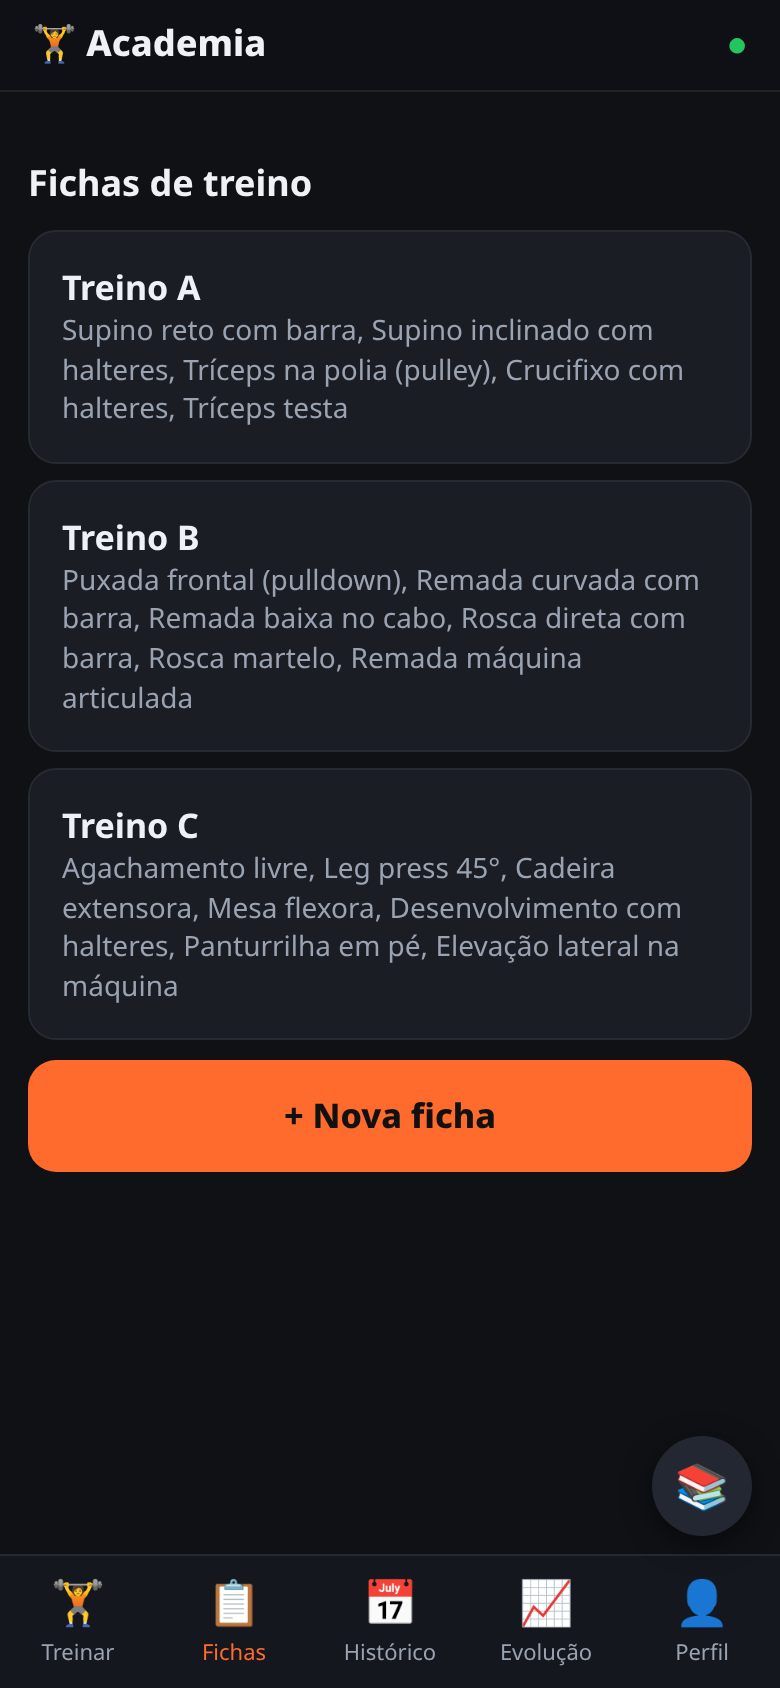
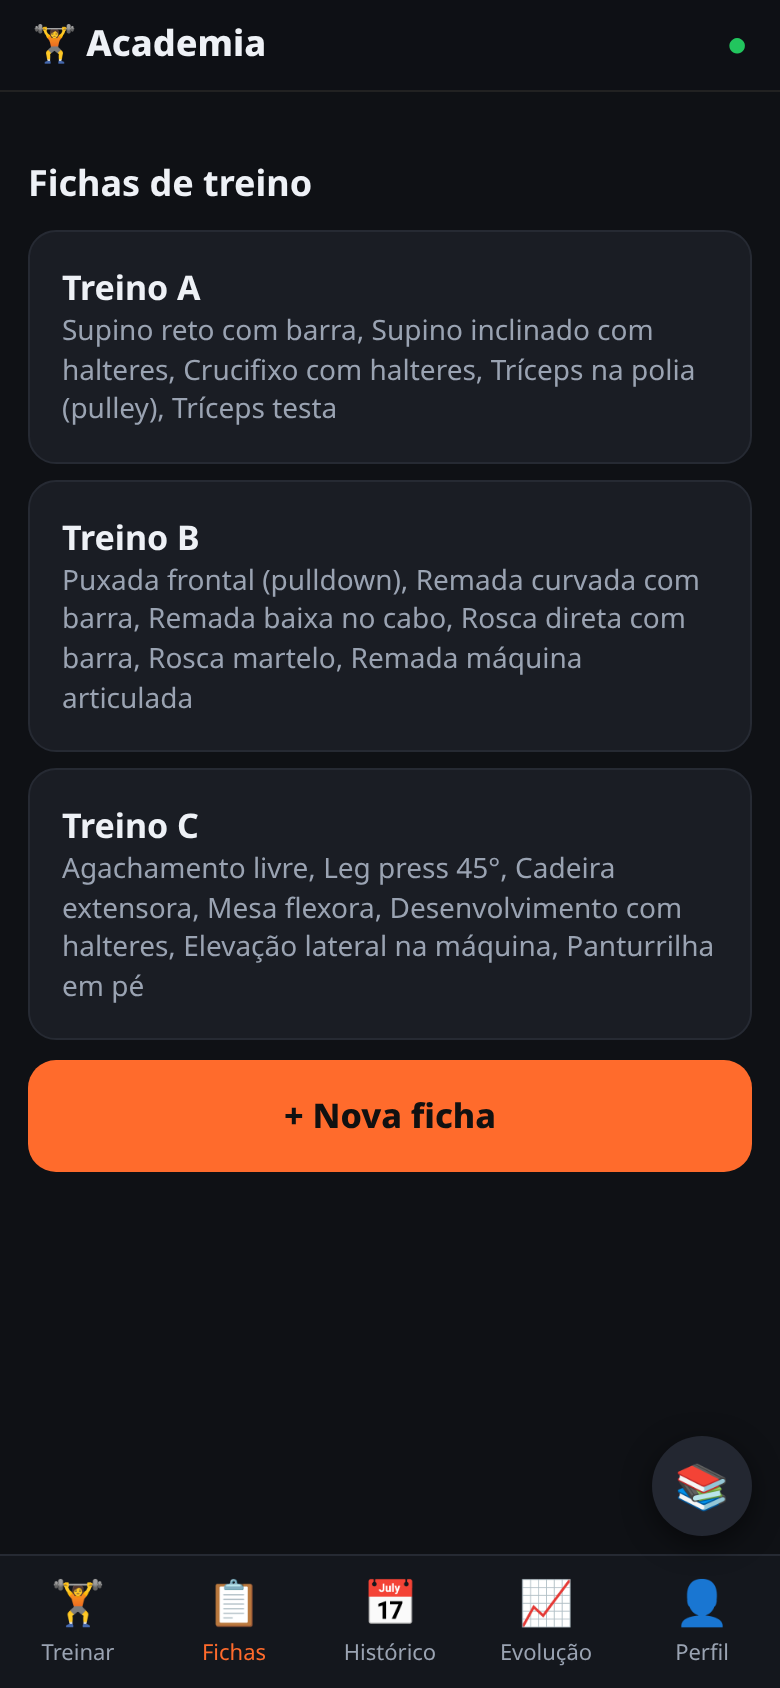
Gráfico por data e rótulos decimais; Evolução ordenada; CSV com data local; Biblioteca na tela Fichas

diff --git a/docs/app.js b/docs/app.js
@@ -195,6 +195,7 @@
     return `<h2>Fichas de treino</h2>
       ${fs.map((f) => `<button class="card" data-go="ficha/${f.id}"><div class="t">${esc(f.nome)}</div><div class="sub">${Q.itensFicha(f.id).map((i) => esc(S.get("exercicios", i.exercicio_id)?.nome)).join(", ") || "sem exercícios"}</div></button>`).join("") || `<p class="vazio">Nenhuma ficha ainda.</p>`}
       <button class="btn" data-act="nova-ficha">+ Nova ficha</button>
+      <button class="btn sec" data-go="exercicios">📚 Biblioteca de exercícios</button>
       ${fs.length === 0 ? `<button class="btn sec" data-act="modelo-abc">Criar modelo pronto A/B/C</button>` : ""}`;
   };
 
@@ -266,8 +267,10 @@
 
   telas.progresso = (exId) => {
     if (!exId) {
-      const usados = Q.exercicios().filter((e) => Q.historicoEx(e.id).length);
-      return `<h2>Evolução</h2>${usados.length ? usados.map((e) => { const pr = Q.recordes(e.id); return `<button class="card" data-go="progresso/${e.id}"><div class="t">${esc(e.nome)}</div><div class="sub">PR ${fmtKg(pr.maxCarga)} · 1RM est. ${fmtKg(pr.max1rm)}</div></button>`; }).join("") : `<p class="vazio">Registre treinos para ver sua evolução.</p>`}`;
+      const usados = Q.exercicios().map((e) => ({ e, h: Q.historicoEx(e.id) })).filter((x) => x.h.length)
+        .sort((a, b) => b.h[0].sessao.iniciada_em.localeCompare(a.h[0].sessao.iniciada_em) || a.e.nome.localeCompare(b.e.nome));
+      return `<h2>Evolução</h2><p class="sub">Mais recentes primeiro. Toque para ver o gráfico.</p>${usados.length ? usados.map(({ e, h }) => { const pr = Q.recordes(e.id); const maxReps = Math.max(...h.flatMap((g) => g.series.map((r) => r.reps)));
+        return `<button class="card" data-go="progresso/${e.id}"><div class="t">${esc(e.nome)}</div><div class="sub">${pr.maxCarga ? `PR ${fmtKg(pr.maxCarga)} · 1RM est. ${fmtKg(pr.max1rm)}` : `Sem carga · máx. ${maxReps} reps`} · último: ${fmtData(h[0].sessao.iniciada_em)}</div></button>`; }).join("") : `<p class="vazio">Registre treinos para ver sua evolução.</p>`}`;
     }
     const ex = S.get("exercicios", exId);
     const h = Q.historicoEx(exId).reverse();
@@ -288,10 +291,12 @@
     const vals = pts.flatMap((p) => [p.carga, p.rm]);
     let mn = Math.min(...vals), mx = Math.max(...vals);
     if (mx === mn) { mx += 5; mn = Math.max(0, mn - 5); }
-    const x = (i) => P + (pts.length === 1 ? (W - 2 * P) / 2 : (i * (W - 2 * P)) / (pts.length - 1));
+    const t0 = new Date(pts[0].d).getTime(), t1 = new Date(pts[pts.length - 1].d).getTime();
+    const x = (i) => P + (t1 === t0 ? (W - 2 * P) / 2 : ((new Date(pts[i].d).getTime() - t0) * (W - 2 * P)) / (t1 - t0));
+    const rot = (v) => (mx - mn < 6 ? v.toFixed(1).replace(".", ",") : Math.round(v));
     const y = (v) => H - P + 10 - ((v - mn) / (mx - mn)) * (H - 2 * P);
     const linha = (k, cls) => `<polyline class="${cls}" points="${pts.map((p, i) => `${x(i)},${y(p[k])}`).join(" ")}"/>` + pts.map((p, i) => `<circle class="${cls}" cx="${x(i)}" cy="${y(p[k])}" r="3"/>`).join("");
-    const ticks = [mn, (mn + mx) / 2, mx].map((v) => `<text x="2" y="${y(v) + 4}">${Math.round(v)}</text><line x1="${P}" x2="${W - 5}" y1="${y(v)}" y2="${y(v)}"/>`).join("");
+    const ticks = [mn, (mn + mx) / 2, mx].map((v) => `<text x="2" y="${y(v) + 4}">${rot(v)}</text><line x1="${P}" x2="${W - 5}" y1="${y(v)}" y2="${y(v)}"/>`).join("");
     const datas = [0, pts.length - 1].filter((v, i, a) => a.indexOf(v) === i).map((i) => `<text x="${Math.min(W - 40, Math.max(P - 10, x(i) - 18))}" y="${H - 2}">${new Date(pts[i].d).toLocaleDateString("pt-BR", { day: "2-digit", month: "2-digit" })}</text>`).join("");
     return `<svg class="graf" viewBox="0 0 ${W} ${H}">${ticks}${datas}${unico ? "" : linha("rm", "l2")}${linha("carga", "l1")}</svg>`;
   }
@@ -452,7 +457,7 @@
     },
     exportar: () => {
       const linhas = [["data", "treino", "exercicio", "grupo", "serie", "carga_kg", "reps", "1rm_estimado"]];
-      Q.sessoes().forEach((s) => Q.seriesSessao(s.id).filter((r) => r.feita).forEach((r) => { const e = S.get("exercicios", r.exercicio_id); linhas.push([s.iniciada_em, s.nome, e?.nome, e?.grupo, r.numero, r.carga_kg, r.reps, rm1(r.carga_kg, r.reps).toFixed(1)]); }));
+      Q.sessoes().forEach((s) => Q.seriesSessao(s.id).filter((r) => r.feita).forEach((r) => { const e = S.get("exercicios", r.exercicio_id); linhas.push([new Date(s.iniciada_em).toLocaleString("pt-BR"), s.nome, e?.nome, e?.grupo, r.numero, r.carga_kg, r.reps, rm1(r.carga_kg, r.reps).toFixed(1)]); }));
       const csv = linhas.map((l) => l.map((v) => `"${String(v ?? "").replace(/"/g, '""')}"`).join(";")).join("\n");
       const a = document.createElement("a"); a.href = URL.createObjectURL(new Blob(["\ufeff" + csv], { type: "text/csv" })); a.download = "treinos.csv"; a.click();
     },
@@ -490,7 +495,7 @@
     main().innerHTML = fn(arg);
     if (render._ultima === location.hash) window.scrollTo(0, y); else window.scrollTo(0, 0);
     render._ultima = location.hash;
-    document.querySelectorAll("nav button").forEach((b) => b.classList.toggle("on", b.dataset.go === (nome === "ficha" ? "fichas" : nome === "sessao" ? "historico" : nome === "ativo" ? "treinar" : nome === "conta" ? "perfil" : nome)));
+    document.querySelectorAll("nav button").forEach((b) => b.classList.toggle("on", b.dataset.go === (nome === "ficha" ? "fichas" : nome === "sessao" ? "historico" : nome === "ativo" ? "treinar" : nome === "conta" ? "perfil" : nome === "exercicios" ? "fichas" : nome)));
     atualizarStatus();
     const busca = $("#busca-ex");
     if (busca) busca.oninput = (e) => { telas.exercicios.busca = e.target.value; const pos = e.target.selectionStart; main().innerHTML = telas.exercicios(); const b = $("#busca-ex"); b.focus(); b.setSelectionRange(pos, pos); render(); };

diff --git a/docs/sw.js b/docs/sw.js
@@ -1,6 +1,6 @@
 // Service worker: deixa o app abrir offline (cache do "casco" do app).
 // Ao mudar arquivos, aumente a VERSAO para os aparelhos atualizarem.
-const VERSAO = "academia-v1.0.4";
+const VERSAO = "academia-v1.0.5";
 const ARQUIVOS = ["./", "index.html", "styles.css", "config.js", "store.js", "app.js", "vendor/supabase.js",
   "manifest.webmanifest", "icons/icon-192.png", "icons/icon-512.png", "icons/apple-touch-icon.png"];
 self.addEventListener("install", (e) => { e.waitUntil(caches.open(VERSAO).then((c) => c.addAll(ARQUIVOS))); self.skipWaiting(); });

diff --git a/docs/index.html b/docs/index.html
@@ -29,7 +29,6 @@
     <button data-go="progresso">📈<span>Evolução</span></button>
     <button data-go="perfil">👤<span>Perfil</span></button>
   </nav>
-  <button class="fab-ex" data-go="exercicios" title="Exercícios">📚</button>
   <div id="modal"></div>
   <div id="toast"></div>
   <script src="vendor/supabase.js"></script>

diff --git a/docs/config.js b/docs/config.js
@@ -3,5 +3,5 @@ window.APP_CONFIG = {
   SUPABASE_URL: "https://swiquyzwmmdoayungrnd.supabase.co",
   SUPABASE_KEY: "sb_publishable_oEuGlr01BrMFbbHG5NZQ1A_ioAwP3RQ",
   SCHEMA: "academia",
-  VERSAO: "1.0.4",
+  VERSAO: "1.0.5",
 };

diff --git a/tests/demo_fase4.py b/tests/demo_fase4.py
@@ -1,0 +1,36 @@
+# Fase 4: conferência e screenshots finais + CSV + cadastro/troca de senha (conta descartável) + PWA
+import sys, time, csv, io
+sys.path.insert(0, "tests"); from demo_lib import *
+R = {}
+with sync_playwright() as p:
+    a = App(p); pg = a.pg; abrir(a); time.sleep(3); pg.reload(); a.esperar_sync(); time.sleep(1)
+    a.nav("treinar"); a.shot("02-treinar")
+    a.nav("historico"); R["historico"] = a.main()[:700]; a.shot("09-historico", full=True)
+    pg.locator(".card", has_text="💬").first.click(); time.sleep(0.6); R["chat"] = a.main()[:300]; a.shot("10-sessao-chat", full=True)
+    a.nav("historico"); pg.locator(".card", has_text="Treino A").first.click(); time.sleep(0.6); a.shot("08-sessao-detalhe", full=True)
+    a.nav("progresso"); R["evolucao"] = a.main()[:900]; a.shot("11-evolucao-lista", full=True)
+    pg.locator(".card", has_text="Supino reto com barra").first.click(); time.sleep(0.6)
+    R["supino"] = pg.inner_text(".kpis").replace("\n", " "); R["supino_hist"] = a.main()[-260:]; a.shot("12-evolucao-supino", full=True)
+    a.nav("perfil"); R["perfil"] = pg.inner_text(".kpis").replace("\n", " "); R["perfil_txt"] = a.main()[:600]; a.shot("14-perfil-peso", full=True)
+    with pg.expect_download() as d: pg.click("[data-act=exportar]")
+    path = "/workspace/app-academia/screens/treinos-demo.csv"; d.value.save_as(path)
+    rows = list(csv.reader(io.StringIO(open(path, encoding="utf-8-sig").read()), delimiter=";"))
+    R["csv"] = f"{len(rows)-1} linhas; cabeçalho={rows[0]}; ex={rows[1]}"
+    a.go("exercicios"); a.shot("05-exercicios")
+    a.nav("fichas"); a.shot("03-fichas")
+    R["manifest"] = pg.evaluate("fetch('manifest.webmanifest').then(r=>r.json()).then(m=>[m.display,m.icons.length,m.start_url])")
+    R["sw"] = pg.evaluate("navigator.serviceWorker.getRegistration().then(r=>!!(r&&r.active))")
+    R["erros"] = a.erros; a.ctx.close()
+    # cadastro pela tela + trocar senha + login com a nova (conta descartável)
+    b = App(p, "/tmp/pw-tmp"); q = b.pg; q.goto(URL); q.wait_for_selector("#f-login")
+    q.fill("input[name=email]", "descartavel.academia@example.com"); q.fill("input[name=senha]", "Temp12345")
+    q.click("button[value=criar]"); q.wait_for_selector("nav button.on", timeout=20000); b.esperar_sync()
+    b.nav("perfil"); b.respostas = ["Nova12345"]; q.click("[data-act=senha]"); time.sleep(2); R["trocar_senha"] = q.inner_text("#toast")
+    q.click("[data-act=sair]"); time.sleep(2)
+    q.fill("input[name=email]", "descartavel.academia@example.com"); q.fill("input[name=senha]", "Nova12345"); q.click("button[value=entrar]")
+    q.wait_for_selector("nav button.on", timeout=15000); R["login_nova_senha"] = "ok"
+    q.click("nav button[data-go=perfil]"); time.sleep(0.5); q.click("[data-act=sair]"); time.sleep(1)
+    q.fill("input[name=email]", "descartavel.academia@example.com"); q.fill("input[name=senha]", "Temp12345"); q.click("button[value=criar]"); time.sleep(3)
+    R["cadastro_duplicado"] = q.inner_text("#f-login .erro")
+    b.ctx.close()
+for k, v in R.items(): print(k, "=>", v if not isinstance(v, str) else v.replace("\n", " | "))

diff --git a/tests/demo_fase3.py b/tests/demo_fase3.py
@@ -1,0 +1,39 @@
+# Fase 3: sex 06 — Treino A pelo app: sugestão da última carga, botões +/−, cronômetro, recorde, offline+sync
+import sys, time
+sys.path.insert(0, "tests"); from demo_lib import *
+R = {}
+with sync_playwright() as p:
+    a = App(p); pg = a.pg; R["versao"] = abrir(a); time.sleep(2)
+    a.nav("treinar"); a.shot("02-treinar-inicio")
+    pg.locator("[data-act=iniciar]", has_text="Peito").first.click(); pg.wait_for_selector(".serie .check"); time.sleep(0.6)
+    R["sugestao_supino"] = a.valores("Supino reto com barra"); R["sugestao_inclinado"] = a.valores("Supino inclinado com halteres")
+    R["sub_supino"] = a.bloco("Supino reto com barra").locator(".exhead .sub").inner_text()
+    # progressão com o botão + (2,5 kg) em cada série do supino
+    for i in range(4):
+        a.bloco("Supino reto com barra").locator(".serie:not(.cab)").nth(i).locator("[data-c=carga_kg][data-v='2.5']").click(); time.sleep(0.25)
+    a.bloco("Supino reto com barra").locator(".serie:not(.cab)").nth(0).locator(".check").click(); time.sleep(0.4)
+    R["toast_pr"] = pg.inner_text("#toast"); a.shot("06-treino-ativo-recorde")
+    # cronômetro: +15, −15
+    t0 = pg.inner_text("#timer-txt"); pg.click("#t-mais"); time.sleep(0.3); t1 = pg.inner_text("#timer-txt"); pg.click("#t-menos"); pg.click("#t-menos"); time.sleep(0.3)
+    R["timer"] = [t0, t1, pg.inner_text("#timer-txt")]
+    a.shot("07-cronometro")
+    # resto do supino
+    for i in range(1, 4): a.bloco("Supino reto com barra").locator(".serie:not(.cab)").nth(i).locator(".check").click(); time.sleep(0.25)
+    # OFFLINE no meio do treino
+    a.ctx.set_offline(True); time.sleep(0.5)
+    a.preencher("Supino inclinado com halteres", [(16,9),(16,8),(16,8)])
+    a.preencher("Crucifixo com halteres", [(10,12),(10,12),(10,11)])
+    a.bloco("Crucifixo com halteres").locator(".serie:not(.cab)").nth(2).locator("[data-c=reps][data-v='1']").click(); time.sleep(0.3)
+    a.preencher("Tríceps na polia (pulley)", [(22.5,12),(22.5,11),(22.5,10)])
+    a.preencher("Tríceps testa", [(15,10),(15,10),(15,10)])
+    R["offline_status"] = pg.get_attribute("#sync", "title"); R["fila_offline"] = pg.evaluate("Store.fila.length")
+    pg.click("[data-act=finalizar]"); time.sleep(1)
+    R["detalhe"] = a.main()[:500]
+    a.ctx.set_offline(False); pg.evaluate("window.dispatchEvent(new Event('online'))")
+    R["sync_volta"] = a.esperar_sync(); R["fila_depois"] = pg.evaluate("Store.fila.length")
+    # treino livre: iniciar e descartar
+    a.nav("treinar"); pg.click("[data-act=iniciar-livre]"); time.sleep(0.6)
+    R["livre"] = a.main()[:80]; pg.click("[data-act=cancelar-sessao]"); time.sleep(0.6)
+    R["apos_descartar"] = a.main()[:60]
+    R["erros"] = a.erros; a.ctx.close()
+for k, v in R.items(): print(k, "=>", v if not isinstance(v, str) else v.replace("\n", " | ")[:500])

diff --git a/tests/demo_fase1b.py b/tests/demo_fase1b.py
@@ -1,0 +1,23 @@
+import sys, time
+sys.path.insert(0, "tests"); from demo_lib import *
+R = {}
+with sync_playwright() as p:
+    a = App(p); pg = a.pg; R["versao"] = abrir(a)
+    a.nav("fichas"); pg.locator(".card", has_text="Treino A").click(); time.sleep(0.6)
+    item(a, "Supino reto com barra", "series", "4"); item(a, "Supino reto com barra", "descanso_seg", "120")
+    for ex in ("Crucifixo", "Tríceps na polia", "Tríceps testa"): item(a, ex, "reps_alvo", "10-12")
+    pg.mouse.click(5, 120); time.sleep(0.5)
+    a.nav("fichas"); pg.locator(".card", has_text="Treino B").click(); time.sleep(0.6)
+    item(a, "Puxada frontal", "reps_alvo", "8-10"); item(a, "Remada curvada", "series", "4"); item(a, "Remada curvada", "reps_alvo", "8-10")
+    for ex in ("Remada baixa", "Rosca direta", "Rosca martelo"): item(a, ex, "reps_alvo", "10-12")
+    pg.mouse.click(5, 120); time.sleep(0.5)
+    a.nav("fichas"); pg.locator(".card", has_text="Treino C").click(); time.sleep(0.6)
+    item(a, "Agachamento livre", "reps_alvo", "8-10")
+    item(a, "Panturrilha em pé", "series", "4"); item(a, "Panturrilha em pé", "descanso_seg", "60")
+    for ex in ("Leg press", "Cadeira extensora", "Mesa flexora", "Desenvolvimento"): item(a, ex, "reps_alvo", "10-12")
+    pg.mouse.click(5, 120); time.sleep(0.5)
+    pg.locator(".exbloco", has_text="Elevação lateral na máquina").locator("[data-act=mover][data-v='-1']").click(); time.sleep(0.5)
+    R["ordem_C"] = pg.locator(".exbloco .exhead .t").all_inner_texts()
+    a.shot("04-ficha-C-edicao", full=True)
+    R["sync"] = a.esperar_sync(); R["erros"] = a.erros; a.ctx.close()
+print(R)

diff --git a/tests/demo_lib.py b/tests/demo_lib.py
@@ -5,7 +5,7 @@ def cred():
     t = open("/workspace/app-academia/conta-teste.txt").read()
     return re.search(r"E-mail: (\S+)", t).group(1), re.search(r"Senha: (\S+)", t).group(1)
 class App:
-    def __init__(self, p, perfil_dir="/tmp/pw-demo"):
+    def __init__(self, p, perfil_dir="/tmp/pw-demo2"):
         self.ctx = p.chromium.launch_persistent_context(perfil_dir, channel="chrome", headless=True,
             viewport={"width": 390, "height": 844}, device_scale_factor=2, accept_downloads=True)
         self.pg = self.ctx.pages[0] if self.ctx.pages else self.ctx.new_page()
@@ -44,3 +44,12 @@ class App:
                 row = self.bloco(ex).locator(".serie:not(.cab)").nth(i)
                 if "feita" not in (row.get_attribute("class") or ""):
                     row.locator(".check").click(); time.sleep(0.25)
+def abrir(a):
+    pg = a.pg; pg.goto(URL); time.sleep(2)
+    if pg.is_visible("#f-login"):
+        E, S = cred(); pg.fill("input[name=email]", E); pg.fill("input[name=senha]", S); pg.click("button[value=entrar]")
+    pg.wait_for_selector("nav button.on"); a.esperar_sync()
+    return pg.evaluate("APP_CONFIG.VERSAO")
+def item(a, ex, campo, v):
+    el = a.pg.locator(".exbloco", has_text=ex).first.locator(f"[data-item={campo}]")
+    el.fill(v); el.dispatch_event("change"); time.sleep(0.3)

diff --git a/tests/demo_fase2.py b/tests/demo_fase2.py
@@ -20,7 +20,7 @@ def treino(a, ficha_desc, plano, extra=None, shot=None):
     return a.main()
 with sync_playwright() as p:
     a = App(p); pg = a.pg
-    pg.goto(URL); pg.wait_for_selector("nav button.on"); a.esperar_sync()
+    R["versao"] = abrir(a)
     a.nav("perfil")
     for campo, v in (("idade", "28"), ("meta_peso_kg", "75")):
         el = pg.locator(f"[data-perfil={campo}]"); el.fill(v); el.dispatch_event("change"); time.sleep(0.3)
@@ -45,5 +45,6 @@ with sync_playwright() as p:
     QUA_C["Abdominal supra"] = [(0,20),(0,20),(0,15)]
     R["qua"] = treino(a, "Pernas", QUA_C, extra=extra_c)[:200]
     R["sync"] = a.esperar_sync(); R["erros"] = a.erros
+    R["contagem"] = pg.evaluate("Store.lista('sessoes').map(s=>[s.nome, Store.lista('series',r=>r.sessao_id===s.id&&r.feita).length, Store.lista('series',r=>r.sessao_id===s.id&&r.feita).reduce((a,r)=>a+r.carga_kg*r.reps,0)])")
     a.ctx.close()
 for k, v in R.items(): print(k, "=>", v if not isinstance(v, str) else v.replace("\n", " | ")[:300])
